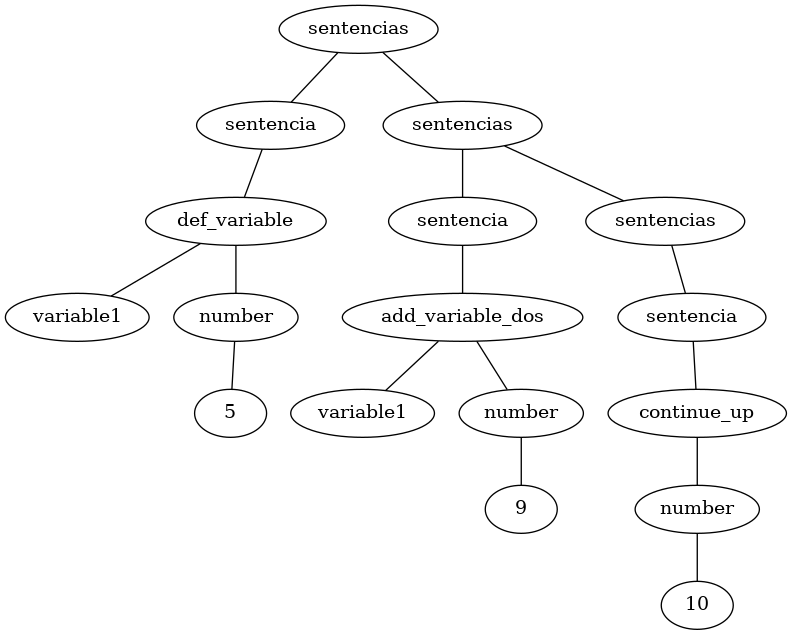
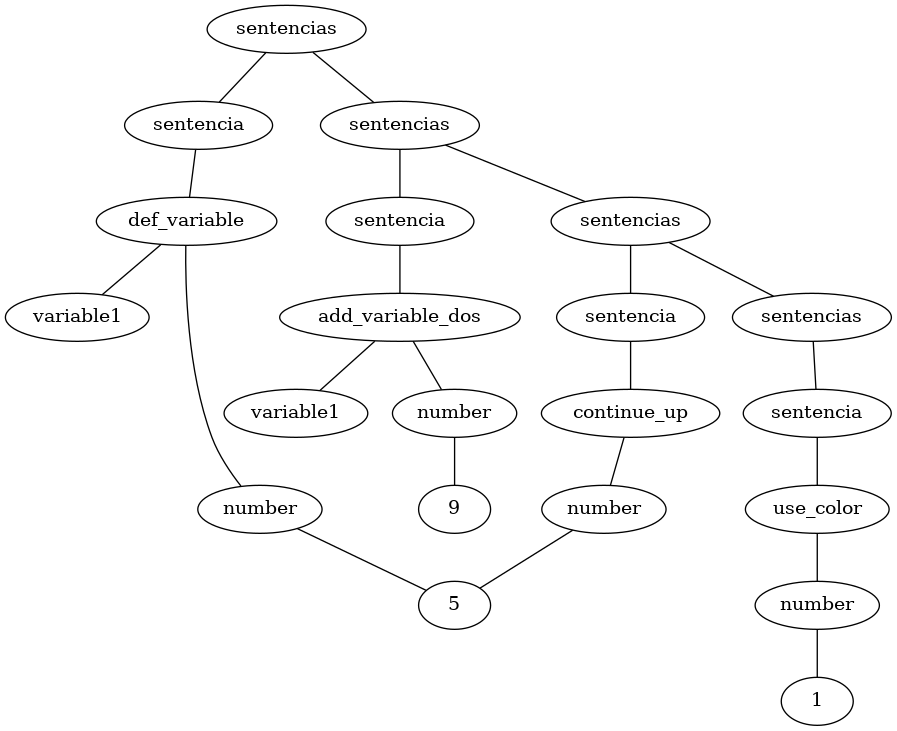
Se agregaron mas verificaciones para funciones
ContinueUp, ContinueDown, ContinueRight, ContinueLeft, Pos, PosX, PosY, UseColor, Down, Up

diff --git a/Analizador_sintactico/semantico.py b/Analizador_sintactico/semantico.py
@@ -24,9 +24,24 @@ class AnalizadorSemantico:
             elif tipo_nodo == 'add_variable_dos':
                 self.analizar_operacion_add(nodo[1], nodo[2][1])
 
-            elif tipo_nodo == 'continue_up':
-                print("llego")
+            elif tipo_nodo == 'continue_up' or tipo_nodo == 'continue_down' or tipo_nodo == 'continue_left' or tipo_nodo == 'continue_right':
+                self.verificar_entero(nodo[1][1])
 
+            elif tipo_nodo == 'pos':
+                self.analizar_pos(nodo)
+
+            elif tipo_nodo == 'posx' or tipo_nodo == 'posy':
+                self.verificar_entero(nodo[1][1])
+
+            elif tipo_nodo == 'use_color':
+                self.analizar_use_color(nodo)
+            
+            elif tipo_nodo == 'down':
+                print("Mover lapicero hacia abajo.")
+
+            elif tipo_nodo == 'up':
+                print("Mover lapicero hacia arriba.")
+                
             # Analizar estructuras como bucles (loops), case, etc.
             elif tipo_nodo == 'for_loop':
                 self.analizar_bucle(nodo)
@@ -134,8 +149,46 @@ class AnalizadorSemantico:
         print(f"Variable '{nombre_variable}' actualizada. Nuevo valor: {nuevo_valor}.")
 
 
+     # Función para verificar si el valor es una variable o un número
+    def verificar_entero(self, valor):
+        if isinstance(valor, str):  # Si es una variable
+            if valor not in self.tabla_simbolos:
+                raise Exception(f"Error semántico: la variable '{valor}' no ha sido declarada.")
+            tipo_variable = self.tabla_simbolos[valor]['tipo']
+            if tipo_variable != 'entero':
+                raise Exception(f"Error semántico: la variable '{valor}' debe ser de tipo entero. Es de tipo '{tipo_variable}'.")
+        else:  # Se asume que el valor es un número
+            if not isinstance(valor, int):
+                raise Exception(f"Error semántico: se esperaba un entero, se recibió: '{valor}'.")
 
+
+    def analizar_pos(self, nodo):
+        """
+        Verifica que ambos valores en la operación Pos sean enteros.
+        """
+        valor_a = nodo[1][1]  # Primer argumento
+        valor_b = nodo[2][1]  # Segundo argumento
+
+        # Verificar ambos valores
+        self.verificar_entero(valor_a)
+        self.verificar_entero(valor_b)
+
+        print(f"Nueva posicion(x:{valor_a}, y:{valor_b}).")
+
+    def analizar_use_color(self, nodo):
+        """
+        Verifica que ambos valores en la operación Pos sean enteros.
+        """
+        valor_a = nodo[1][1]  # Primer argumento
+
+        # Verificar ambos valores
+        self.verificar_entero(valor_a)
+        
+        if valor_a > 2 or valor_a < 1:
+            raise Exception(f"Error semántico: el valor de 'use_color' debe ser 1 o 2. Se recibió: '{valor_a}'.")
             
+        print(f"Color actual: {valor_a}.")
+
     def analizar_bucle(self, nodo):
         """
         Realiza las comprobaciones para las variables de control de un bucle y asegura que los límites del bucle sean correctos.
@@ -178,18 +231,20 @@ if __name__ == "__main__":
     from sintactico import parser
 
     data = '''
-    Def(variable1, 9);
-    Def(variable2, TRUE); 
-    Add(variable1, 5);
-    ContinueUp 10;
+    Def(variable1, 7);
+    Pos(80,90);
+    Pos(80,variable1);
+    PosX 50;
+    PosY 5;
+    UseColor 1;
     '''
 
     # Parsear el código para generar el árbol sintáctico (AST)
     arbol_sintactico = parser.parse(data)
-    print("Árbol Sintáctico Generado:", arbol_sintactico)
+    #print("Árbol Sintáctico Generado:", arbol_sintactico)
 
     # Crear y ejecutar el analizador semántico
     analizador = AnalizadorSemantico()
     analizador.analizar(arbol_sintactico)
-    print("Análisis semántico completado correctamente")
+    #print("Análisis semántico completado correctamente")
     print("Tabla de Símbolos:", analizador.tabla_simbolos)

diff --git a/Analizador_sintactico/sintactico.py b/Analizador_sintactico/sintactico.py
@@ -280,7 +280,8 @@ if __name__ == "__main__":
     data = '''// Ejemplo de código fuente
     Def(variable1, 5);
     Add(variable1, 9); 
-    ContinueUp 10;
+    ContinueUp 5;
+    UseColor 1;
     '''
     analizar_sintactico(data)
 
